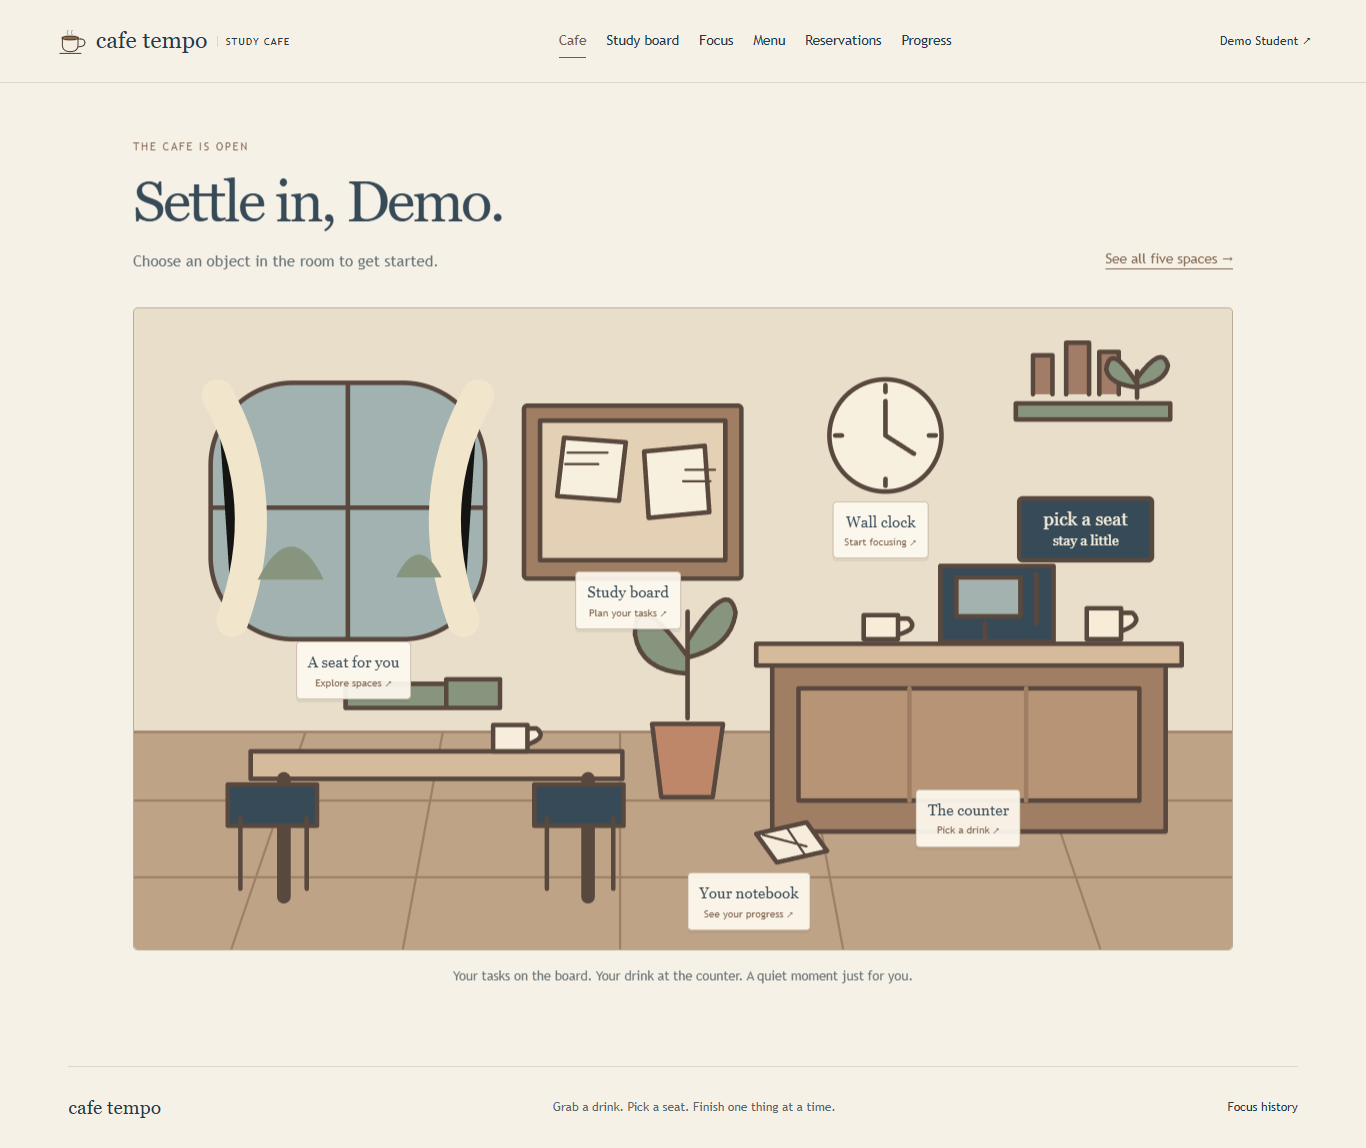
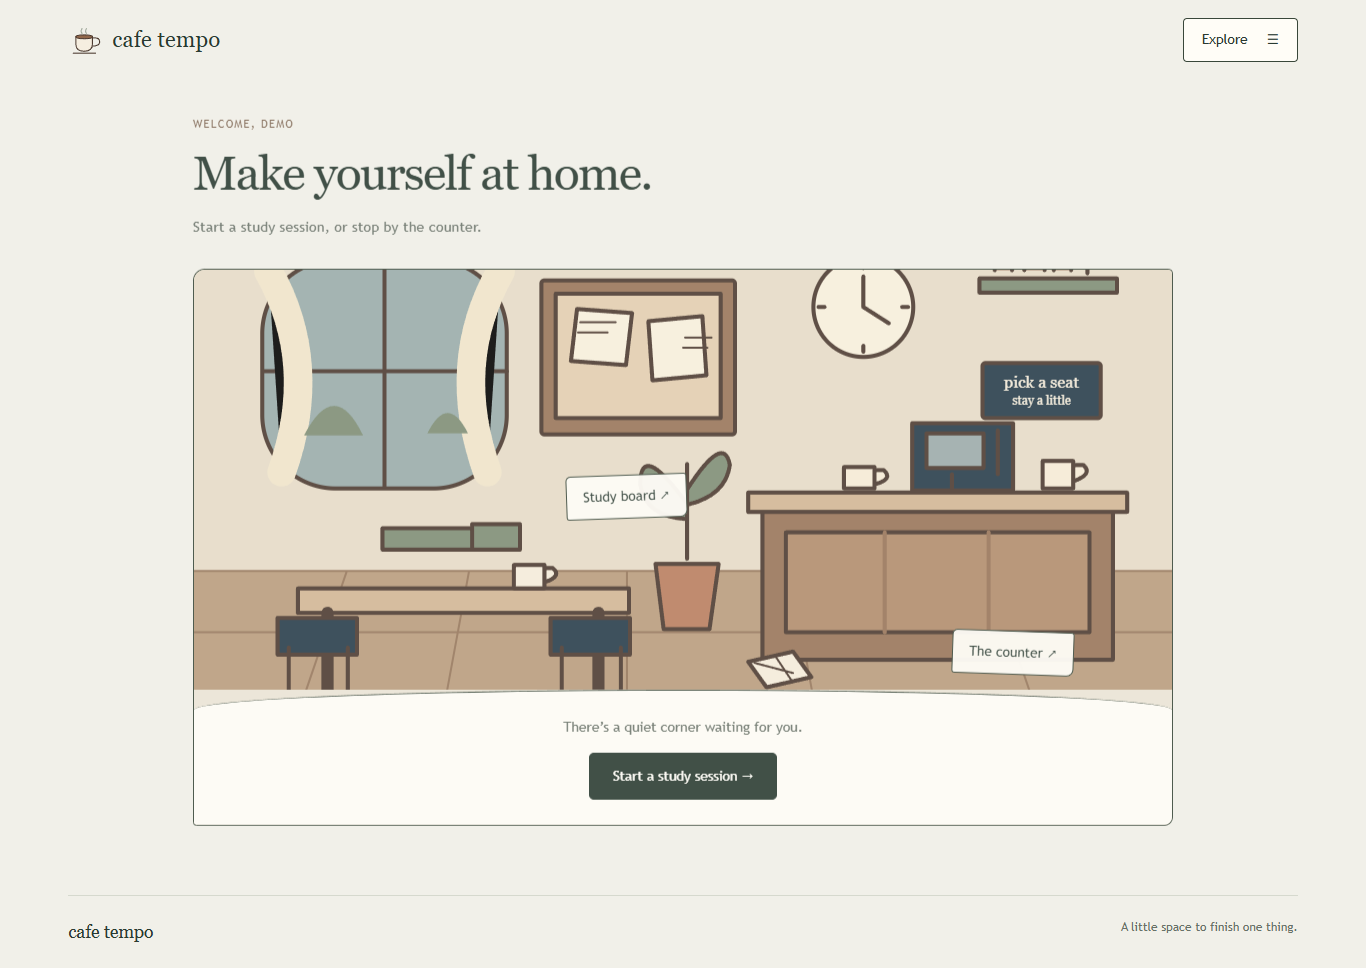
docs: document the quieter cafe design and optional asset brief
- Explain the revised navigation and optional reservation flow
- Document presentation components and reusable logic for handoff
- Specify optional drink, room and ambient video assets
- Refresh screenshots of the working draft

diff --git a/docs/REDESIGN.md b/docs/REDESIGN.md
@@ -1,0 +1,32 @@
+# A quieter cafe draft
+
+## What changed
+
+- The header shows the wordmark and one Explore button. Secondary pages live in an accessible dialog with keyboard dismissal.
+- The lobby has one primary study action and two cafe objects: the study board and counter.
+- Session setup shows task, space, energy, then a suggested rhythm. Recommendations and session creation still come from the server.
+- The timer is the main content. Completion opens a short confirmation form; cancellation is under Session details.
+- Five original SVG room illustrations give the space browser distinct moods. Drink selection uses original cup and cookie illustrations.
+- The counter starts with four item choices. Quantity controls appear only for selected items.
+- Task editing and deletion sit under Manage task.
+- Reduced motion preferences are respected; transitions are short, and mobile controls have generous touch targets.
+
+## Reservation flow
+
+Studying now does not require a booking. A reservation saves a virtual seat for a future visit; it does not start a focus session or physically book a real cafe.
+
+1. Explore a space and open Reserve this space for later.
+2. Choose a future start and duration. Input follows the device timezone; the review uses Philippine time.
+3. Check availability. The client also checks the selected profile's existing reservations to explain overlaps before confirmation.
+4. Review the start, end, space and remaining seats.
+5. Confirm. The server rechecks capacity and overlaps before saving.
+
+Change time returns to the form without creating a reservation. A failed confirmation returns to the form with the server error. Upcoming reservations appear first; cancelled and expired reservations are inside a history disclosure.
+
+## Handoff
+
+API calls remain in services/cafeApi.ts. Session setup and reservation state live in hooks/useStudySetup.ts and hooks/useReservation.ts. Form validation lives in schemas/forms.ts.
+
+SpaceIllustration and MenuArtwork are original vector placeholders. Replace these presentation components with images without changing the hooks or API contracts. See ASSET_BRIEF.md.
+
+No backend endpoint, recommendation formula, order discount, authentication or achievement system was added by this redesign.

diff --git a/docs/ASSET_BRIEF.md b/docs/ASSET_BRIEF.md
@@ -1,0 +1,18 @@
+# Optional assets for the final cafe
+
+The working draft needs no additional assets. Its original SVGs can stay until the frontend partner has final artwork.
+
+If you want photographic drinks or ambient backgrounds, provide:
+
+| Asset | Exact request | Suggested filename |
+| --- | --- | --- |
+| Drink and snack cutouts | One Cafe Latte, Matcha, Hot Chocolate and Butter Cookie; transparent PNG or WebP; at least 1024 × 1024; consistent angle and lighting; whole item visible | cafe-latte.png, matcha.png, hot-chocolate.png, butter-cookie.png |
+| Five room scenes | Window Seat, Quiet Corner, Library Table, Garden Patio and Midnight Cafe; 1600 × 1000 or larger; consistent illustration or photography style; no text embedded in the image | window-seat.webp, quiet-corner.webp, library-table.webp, garden-patio.webp, midnight-cafe.webp |
+| Optional ambient videos | One per space; 10–20 second seamless loop; 1920 × 1080 MP4; muted; steady camera; quiet movement; accompanying still image for reduced motion and mobile | same space filenames with .mp4 extension |
+| Optional storefront | An original Cafe Tempo entrance illustration; at least 1600 px wide; no reference-site characters or branding | cafe-front.webp |
+
+Use your own work or assets you have permission to use. No video or audio is required to test the project.
+
+Place final files in public/assets/. Update src/assets.ts for the entrance, and swap the presentation in SpaceIllustration.tsx or MenuArtwork.tsx for room/item files. Keep room and item names matched to server data. Add a fallback for unknown menu items.
+
+Audio is not implemented in this draft. If you later want ambience, provide original or licensed audio separately and use an explicit play/mute control.

diff --git a/README.md b/README.md
@@ -23,7 +23,7 @@ npm.cmd run dev
 
 Open **http://localhost:5173**. Use `localhost` so it matches the server's default CORS origin. The client defaults to `http://localhost:5000/api`. To change that address, copy `.env.example` to `.env` and edit `VITE_API_URL`; restart Vite afterward. Client environment variables are public, so never put database credentials here.
 
-Click **Come on in**, choose **Demo Student**, then use the cafe objects or navigation menu. Profile selection is not authentication. The existing backend has no password login; authentication is optional under the rubric and has not been implemented.
+Click **Come on in**, choose **Demo Student**, then start a study session. Use **Explore** to reach the study board, spaces, counter, reservations and notebook. Profile selection is not authentication. The existing backend has no password login; authentication is optional under the rubric and has not been implemented.
 
 ## What the draft supports
 
@@ -35,7 +35,7 @@ Click **Come on in**, choose **Demo Student**, then use the cafe objects or navi
 - Read productivity statistics, current streak, longest streak, favorite area, and most ordered drink.
 - Recover from failed requests and show validation, empty, loading, and success states.
 
-There are 17 page routes, with a shared component for the add/edit task form. The endpoint-to-screen map and design plan are in [docs/DRAFT_PLAN.md](docs/DRAFT_PLAN.md).
+There are 17 page routes, with a shared component for the add/edit task form. The endpoint map is in [docs/DRAFT_PLAN.md](docs/DRAFT_PLAN.md). The simplified flow and handoff are in [docs/REDESIGN.md](docs/REDESIGN.md), with an optional [asset brief](docs/ASSET_BRIEF.md).
 
 ## Structure for the frontend handoff
 

diff --git a/docs/DRAFT_PLAN.md b/docs/DRAFT_PLAN.md
@@ -17,11 +17,11 @@ The concept calls for a cafe entrance, themed spaces, task planning, focus sessi
 
 | Route | Screen | Server requests |
 | --- | --- | --- |
-| `/` | Illustrated entrance and short cafe ritual | None; profile loading is shared |
+| `/` | Illustrated entrance with one entry action | None; profile loading is shared |
 | `/welcome` | Choose an existing study profile | `GET /users` |
 | `/cafe` | Clickable cafe scene | Shared profile state |
 | `/spaces` | Choose a cafe area | `GET /cafe-areas` |
-| `/spaces/:id` | Area details and reservation form | `GET /cafe-areas/:id`, `GET /cafe-areas/:id/availability`, `POST /reservations` |
+| `/spaces/:id` | Study now or optional future reservation | `GET /cafe-areas/:id`, `GET /cafe-areas/:id/availability`, `GET /reservations`, `POST /reservations` |
 | `/tasks` | Task board and priority | `GET /tasks`, `GET /tasks/priorities`, `DELETE /tasks/:id` |
 | `/tasks/new` | New task form | `POST /tasks` |
 | `/tasks/:id/edit` | Edit task/status | `GET /tasks/:id`, `PATCH /tasks/:id` |
